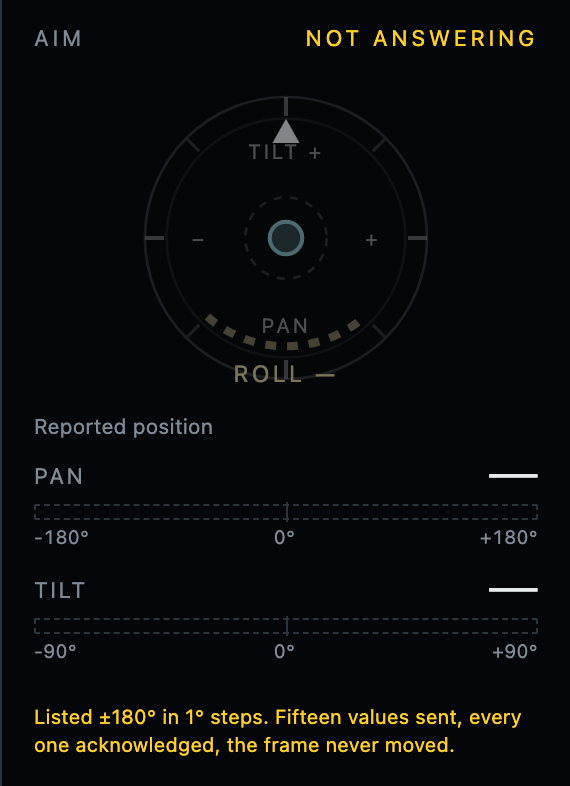
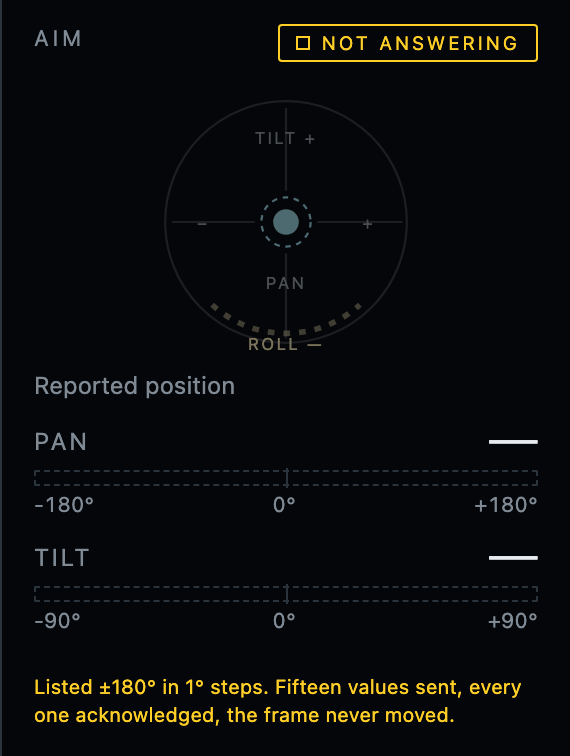
docs(console): the Aim panel in the alternative's visual idiom
One thin ring, a crosshair, a haloed puck at rest at the centre and under
the finger while pushing; sentence-case sub-headings; an outlined badge
stating rate control; a rounded Recentre gimbal. Adopted from the
alternative mockup at the operator's direction. The struck axis for an aim
that will not answer stays: it is a state from capability-states.html.

diff --git a/docs/console/design/instrument-library/gallery/DraftAimDial.vue b/docs/console/design/instrument-library/gallery/DraftAimDial.vue
@@ -5,47 +5,27 @@
      again. -->
 <template>
   <div class="d-aim">
-    <svg width="160" height="160" viewBox="0 0 118 118" class="d-aim__dial"
+    <svg width="132" height="132" viewBox="0 0 118 118" class="d-aim__dial"
          :class="{ live: pushing }"
          @pointerdown="down" @pointermove="move"
          @pointerup="up" @pointercancel="up" @pointerleave="up">
-      <circle cx="59" cy="59" r="52" :fill="c.display" :stroke="c.divider" stroke-width="1"/>
-      <circle cx="59" cy="59" r="44" fill="none" :stroke="c.track" stroke-width="1"/>
-      <g :stroke="c.label" stroke-width="1.5" stroke-opacity=".7">
-        <path d="M59 7v7 M59 104v7 M7 59h7 M104 59h7"/>
+      <circle cx="59" cy="59" r="54" fill="none" :stroke="c.divider" stroke-width="1"/>
+      <!-- crosshair, stopping short of the puck -->
+      <g :stroke="c.divider" stroke-width="1">
+        <path d="M59 8v37 M59 73v38 M8 59h37 M73 59h38"/>
       </g>
-      <g :stroke="c.divider" stroke-width="1.2">
-        <path d="M22 22l5 5 M96 22l-5 5 M22 96l5-5 M96 96l-5-5"/>
-      </g>
-      <circle cx="59" cy="59" r="15" fill="none" :stroke="c.divider" stroke-width="1" stroke-dasharray="3 3"/>
-      <!-- axis labels, so the pad reads without instruction -->
       <g :fill="c.label" font-size="7.5" font-family="ui-sans-serif,system-ui" letter-spacing=".8" text-anchor="middle">
-        <text x="59" y="30">TILT +</text><text x="59" y="94">PAN</text>
-        <text x="27" y="62">&#8722;</text><text x="91" y="62">+</text>
+        <text x="59" y="24">TILT +</text><text x="59" y="89">PAN</text>
+        <text x="22" y="62">&#8722;</text><text x="96" y="62">+</text>
       </g>
-      <!-- the puck, at rest at the centre -->
-      <circle v-if="!pushing" cx="59" cy="59" r="6" :fill="c.select" fill-opacity=".35" :stroke="c.select" stroke-width="1.5"/>
-
-      <!-- an axis that will not answer stays on the dial, struck and labelled,
-           so a gimbal that half works is not read as one that does -->
+      <!-- an axis that will not answer stays on the pad, struck and labelled -->
       <template v-if="axes.roll !== 'present'">
-        <path d="M 30 88 A 44 44 0 0 0 88 88" fill="none" :stroke="c.waiting"
-              stroke-opacity=".55" stroke-width="3" stroke-dasharray="4 4"/>
-        <text x="59" y="112" text-anchor="middle" font-size="8.5" :fill="c.waiting"
-              letter-spacing="1">ROLL &#8212;</text>
+        <path d="M 26 96 A 49 49 0 0 0 92 96" fill="none" :stroke="c.waiting" stroke-opacity=".5" stroke-width="2.5" stroke-dasharray="3 4"/>
+        <text x="59" y="116" text-anchor="middle" font-size="7.5" :fill="c.waiting" letter-spacing=".8" font-family="ui-sans-serif,system-ui">ROLL &#8212;</text>
       </template>
-
-      <!-- where the gimbal actually is -->
-      <g :transform="`rotate(${bearing} 59 59)`">
-        <path d="M59 15 l-5 9 h10 z" :fill="c.value"/>
-      </g>
-
-      <!-- where you are pushing -->
-      <template v-if="pushing">
-        <line x1="59" y1="59" :x2="px" :y2="py" :stroke="c.select" stroke-width="3"/>
-        <circle :cx="px" :cy="py" r="13" :fill="c.select" fill-opacity=".2" :stroke="c.select" stroke-width="2"/>
-        <circle :cx="px" :cy="py" r="3.5" :fill="c.select"/>
-      </template>
+      <!-- the puck: where you are pushing, or the centre at rest -->
+      <circle :cx="pushing ? px : 59" :cy="pushing ? py : 59" r="11" fill="none" :stroke="c.select" stroke-width="1" stroke-dasharray="2.5 2.5"/>
+      <circle :cx="pushing ? px : 59" :cy="pushing ? py : 59" r="6.5" :fill="c.select" :stroke="c.display" stroke-width="1.5"/>
     </svg>
 
     <div class="d-aim__rows">
@@ -63,7 +43,7 @@
       <div v-if="axes.pan === 'present' || axes.tilt === 'present'" class="d-blk">
         <span class="d-blk__h">Commanded rate</span>
         <div class="d-rate" :class="{ pushing }">{{ rateShown }}<i>&deg;/s</i></div>
-        <div class="d-pos__b"><span>0</span><span></span><span>{{ MAX }} &deg;/s</span></div>
+        <div class="d-pos__b d-pos__b--rate"><span>0</span><i></i><span>{{ MAX }} &deg;/s</span></div>
       </div>
       <div v-if="atLimit" class="d-limit"><i></i>At the limit</div>
     </div>
@@ -141,19 +121,21 @@ export default {
 .d-aim__dial { flex:0 0 auto; cursor:grab; touch-action:none; }
 .d-aim__dial.live { cursor:grabbing; }
 .d-aim__rows { flex:1; min-width:0; display:flex; flex-direction:column; gap:12px; margin-bottom:6px; }
-.d-blk__h { display:block; font-size:10.5px; color: var(--yonder-label,#7f8a95); margin-bottom:6px; }
+.d-blk__h { display:block; font-size:12px; color: var(--yonder-label,#7f8a95); margin-bottom:8px; }
+.d-pos__b--rate { justify-content:flex-start; gap:8px; align-items:center; }
+.d-pos__b--rate i { width:18px; height:1px; background: var(--yonder-divider,#2b333c); }
 .d-pos { margin-bottom:8px; }
 .d-pos.dead .d-pos__trk { border:1px dashed var(--yonder-divider,#2b333c); background:transparent; }
 .d-pos__trk { position:relative; height:6px; margin:4px 0 3px; border-radius:1px; background: var(--yonder-track,#161b21); }
 .d-pos__zero { position:absolute; left:50%; top:-2px; width:1px; height:10px; background: var(--yonder-divider,#2b333c); }
 .d-pos__ptr { position:absolute; top:-3px; width:2px; height:12px; margin-left:-1px; background: var(--yonder-value,#fff); }
-.d-pos__b { display:flex; justify-content:space-between; font-size:9.5px; font-variant-numeric:tabular-nums;
+.d-pos__b { display:flex; justify-content:space-between; font-size:10.5px; font-variant-numeric:tabular-nums;
   color: var(--yonder-label,#7f8a95); }
 .d-rate { font-size:22px; font-weight:600; font-variant-numeric:tabular-nums; color: var(--yonder-value,#fff); line-height:1.1; }
 .d-rate.pushing { color: var(--yonder-select,#2ad4f0); }
 .d-rate i { font-style:normal; font-weight:400; font-size:11px; text-transform:none; margin-left:4px; color: var(--yonder-label,#7f8a95); }
 .d-row { display:flex; align-items:baseline; justify-content:space-between; gap:10px; padding:3px 0; }
-.d-row .l { font-size:11px; letter-spacing:.1em; text-transform:uppercase;
+.d-row .l { font-size:12px; letter-spacing:.1em; text-transform:uppercase;
   color: var(--yonder-label,#7f8a95); }
 .d-row .v { font-size:14px; font-weight:600; font-variant-numeric: tabular-nums;
   color: var(--yonder-value,#fff); }

diff --git a/docs/console/design/instrument-library/gallery/deck.js b/docs/console/design/instrument-library/gallery/deck.js
@@ -144,7 +144,7 @@ export const DraftDeck = defineComponent({
 
     const aimPanel = hasAim ? h("div", { class: ["d-aimpanel", { dead: !aimLive }] }, [
       h("div", { class: "d-h" }, [h("span", "Aim"),
-        h("em", { class: aimLive ? "q-label" : "q-waiting" }, aimLive ? "rate control" : "not answering")]),
+        h("em", { class: ["d-badge", aimLive ? "" : "warn"] }, [h("i"), aimLive ? "rate control" : "not answering"])]),
       h(AimDial, {
         pan: this.aim.pan, tilt: this.aim.tilt, c: this.pal,
         atLimit: aimLive && Math.abs(this.aim.tilt) > 60,
@@ -159,7 +159,7 @@ export const DraftDeck = defineComponent({
         "Tilt lock": "Tilt holds where you put it; pan follows the handle.",
         "FPV": "Everything follows the handle, roll included.",
       }[this.v.gimbalMode] ?? "") : null,
-      aimLive ? h("button", { type: "button", class: "d-recentre",
+      aimLive ? h("button", { type: "button", class: "d-recentre d-recentre--soft",
         onClick: () => { this.aim.pan = 0; this.aim.tilt = 0; } }, "Recentre gimbal") : null,
       cam.aim.reason ? h("div", { class: "d-why why-advertised" }, cam.aim.reason) : null,
     ]) : null;

diff --git a/docs/console/design/instrument-library/gallery/gallery.css b/docs/console/design/instrument-library/gallery/gallery.css
@@ -201,3 +201,14 @@ body { margin:0; background: var(--yonder-background, #0a0c0f); color: var(--yon
 .d-modenote { font-size:11px; color: var(--yonder-label,#7f8a95); margin:-6px 0 0; }
 .q-label { color: var(--yonder-label,#7f8a95); }
 .d-aimpanel .d-aim { gap:8px; }
+
+/* the alternative's badge: outlined, a square dot, small caps */
+.d-badge { display:inline-flex; align-items:center; gap:6px; font-size:9.5px; letter-spacing:.14em; text-transform:uppercase;
+  padding:3px 8px; border-radius:2px; border:1px solid var(--yonder-divider,#2b333c); color: var(--yonder-label,#7f8a95); }
+.d-badge i { width:5px; height:5px; border:1px solid currentColor; }
+.d-badge.warn { border-color: var(--yonder-waiting,#ffcf28); color: var(--yonder-waiting,#ffcf28); }
+.d-aimpanel .d-h em { font-style:normal; }
+/* sentence case for the panel's sub-labels */
+.d-aimpanel .d-lbl, .d-aimpanel .d-field .d-lbl { text-transform:none; letter-spacing:0; font-size:12px; }
+.d-modenote { font-size:12px; }
+.d-recentre--soft { text-transform:none; letter-spacing:0; font-size:13px; padding:0 18px; min-height:38px; border-radius:4px; }

diff --git a/docs/console/design/instrument-library/README.md b/docs/console/design/instrument-library/README.md
@@ -86,9 +86,12 @@ predates these and must be brought up to them:
 - **The Aim panel draws pan and tilt against their bounds** (R-UI-09) under a
   *Reported position* heading, with *Commanded rate* as its own block, axis
   labels on the pad, `RATE CONTROL` stated at the head, a sentence under the
-  gimbal mode saying what the mode does, and `Recentre gimbal`. Four of those
-  came from the alternative in `../instrument-library-alternative/`; the
-  heading mark and the struck axis for an advertised state stayed from here.
+  gimbal mode saying what the mode does, and `Recentre gimbal` — **in the
+  alternative's visual idiom**: one thin ring, a crosshair, a haloed puck,
+  sentence-case sub-headings, an outlined badge for the control model. Adopted
+  from `../instrument-library-alternative/` at the operator's direction. The
+  struck axis for an advertised state stays, because it is a state from
+  `capability-states.html`, not decoration.
 - The harness has a **link** switch — good / poor / lost — so the states can
   be seen. **Nothing measures the link yet**: R-VID-07 is unbuilt, and the
   round-trip figure is typed in.
